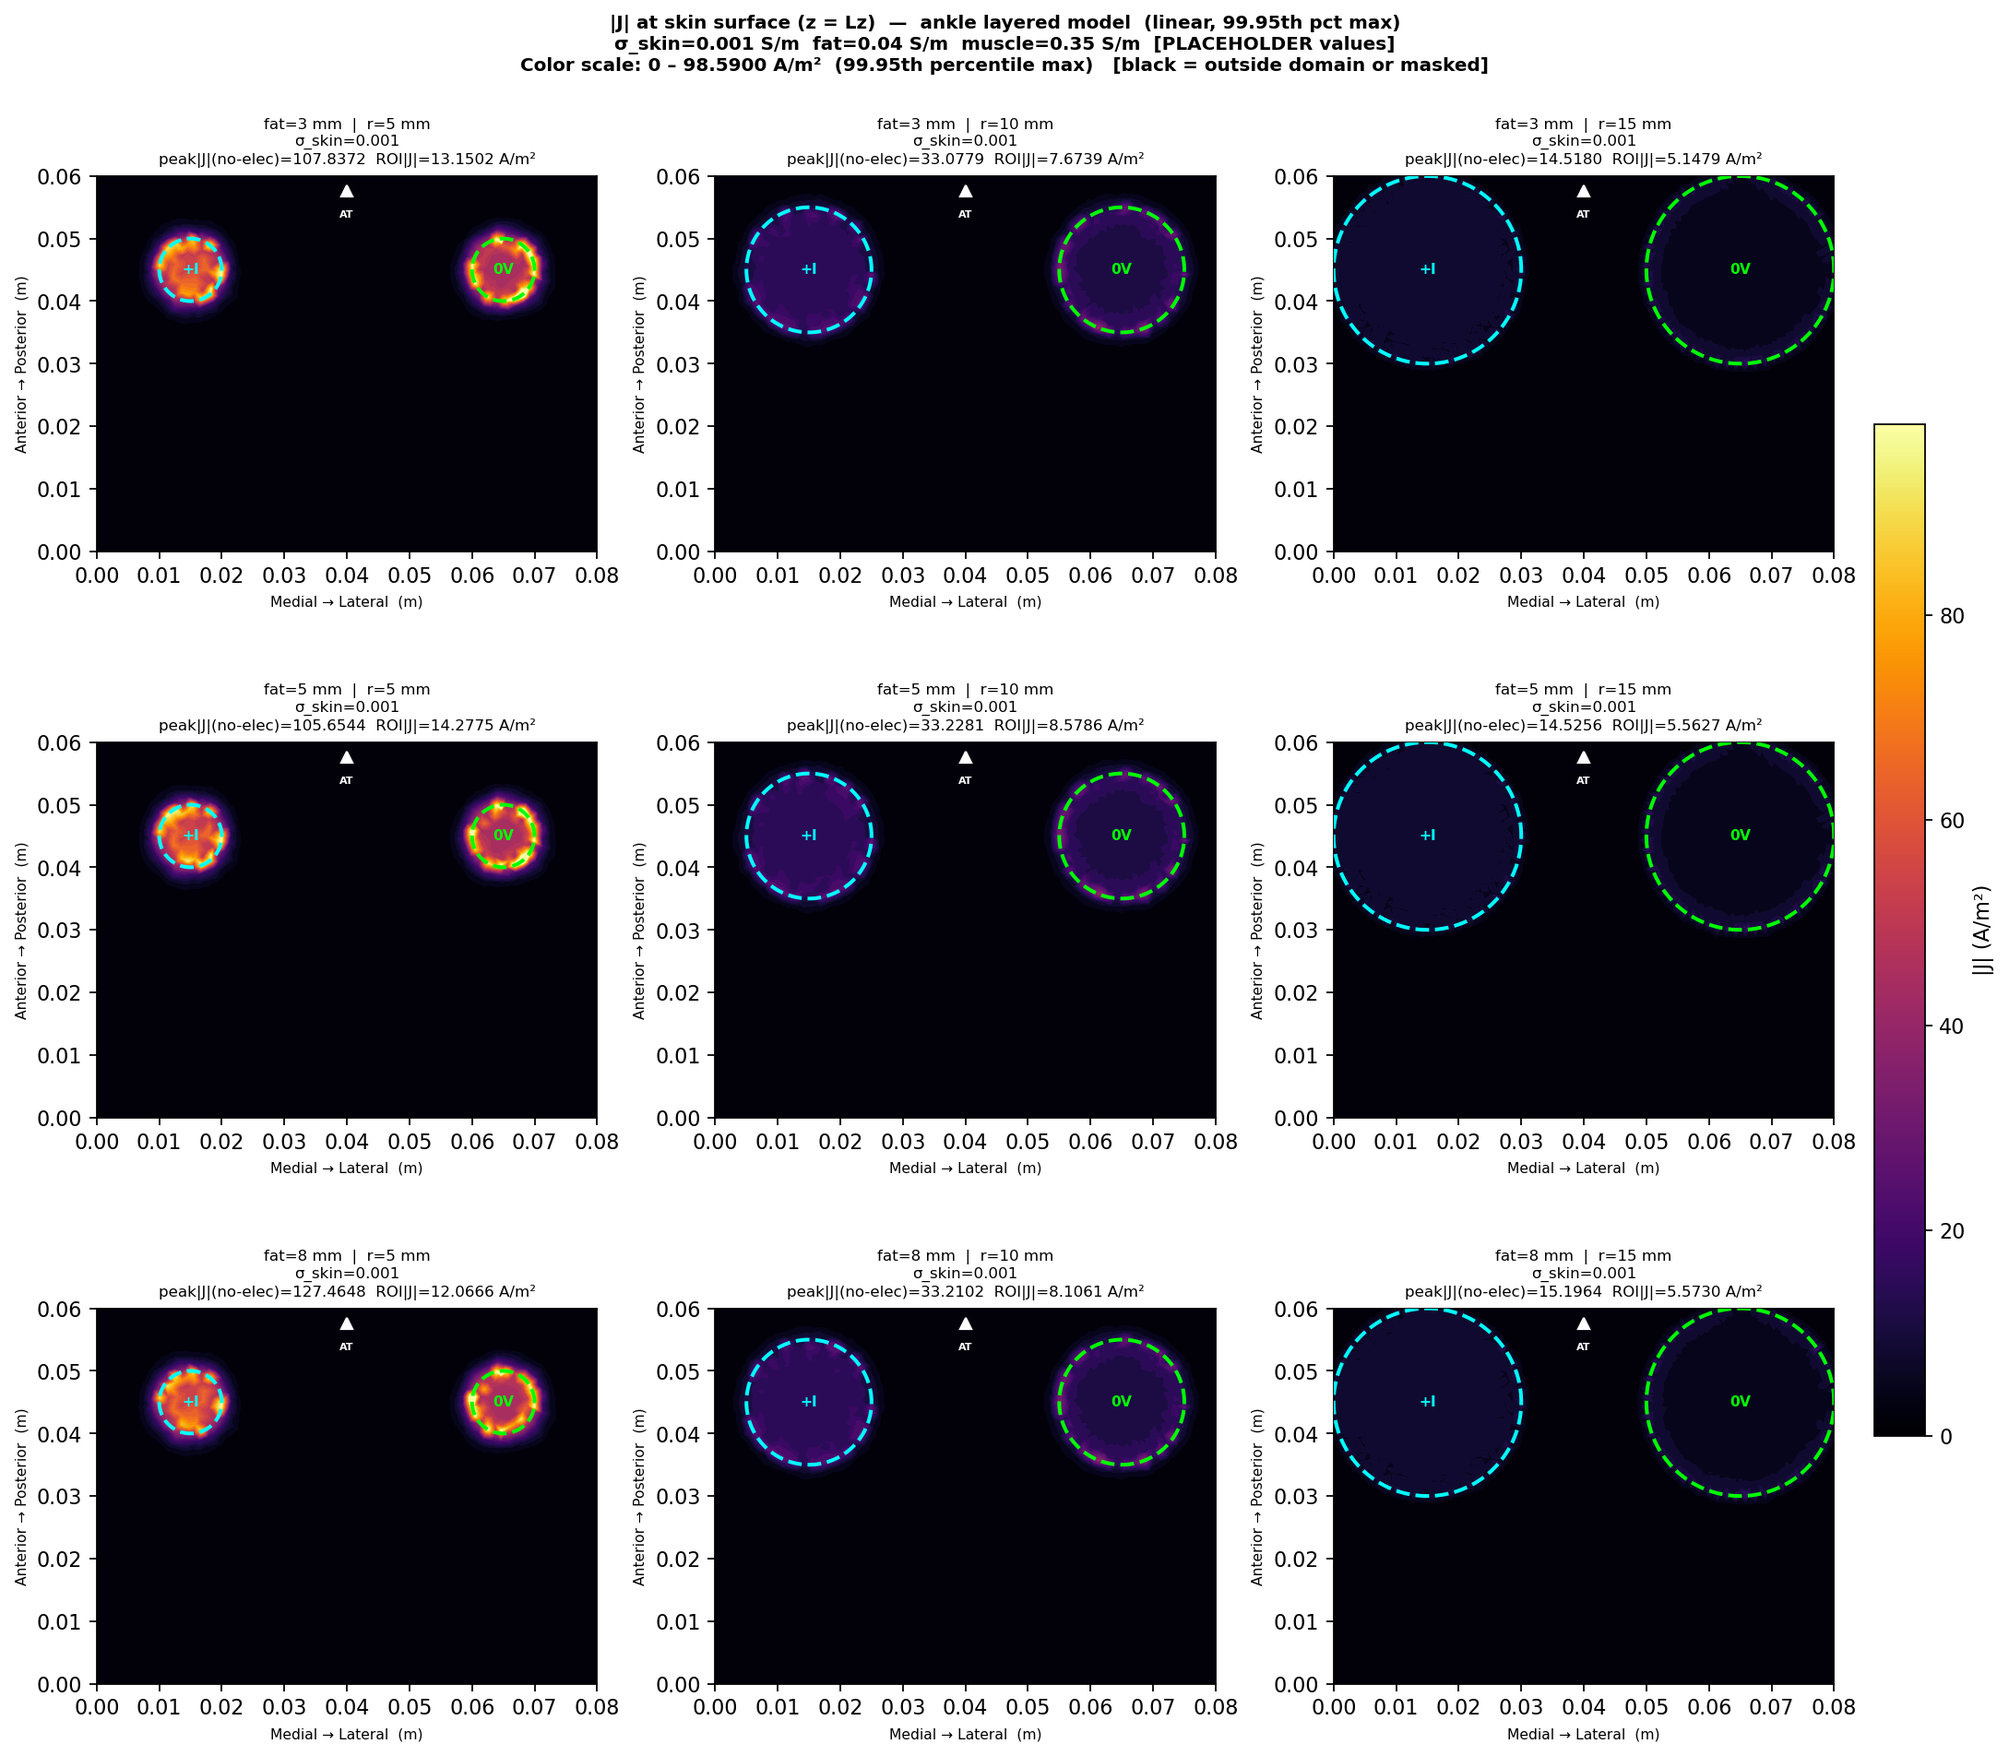
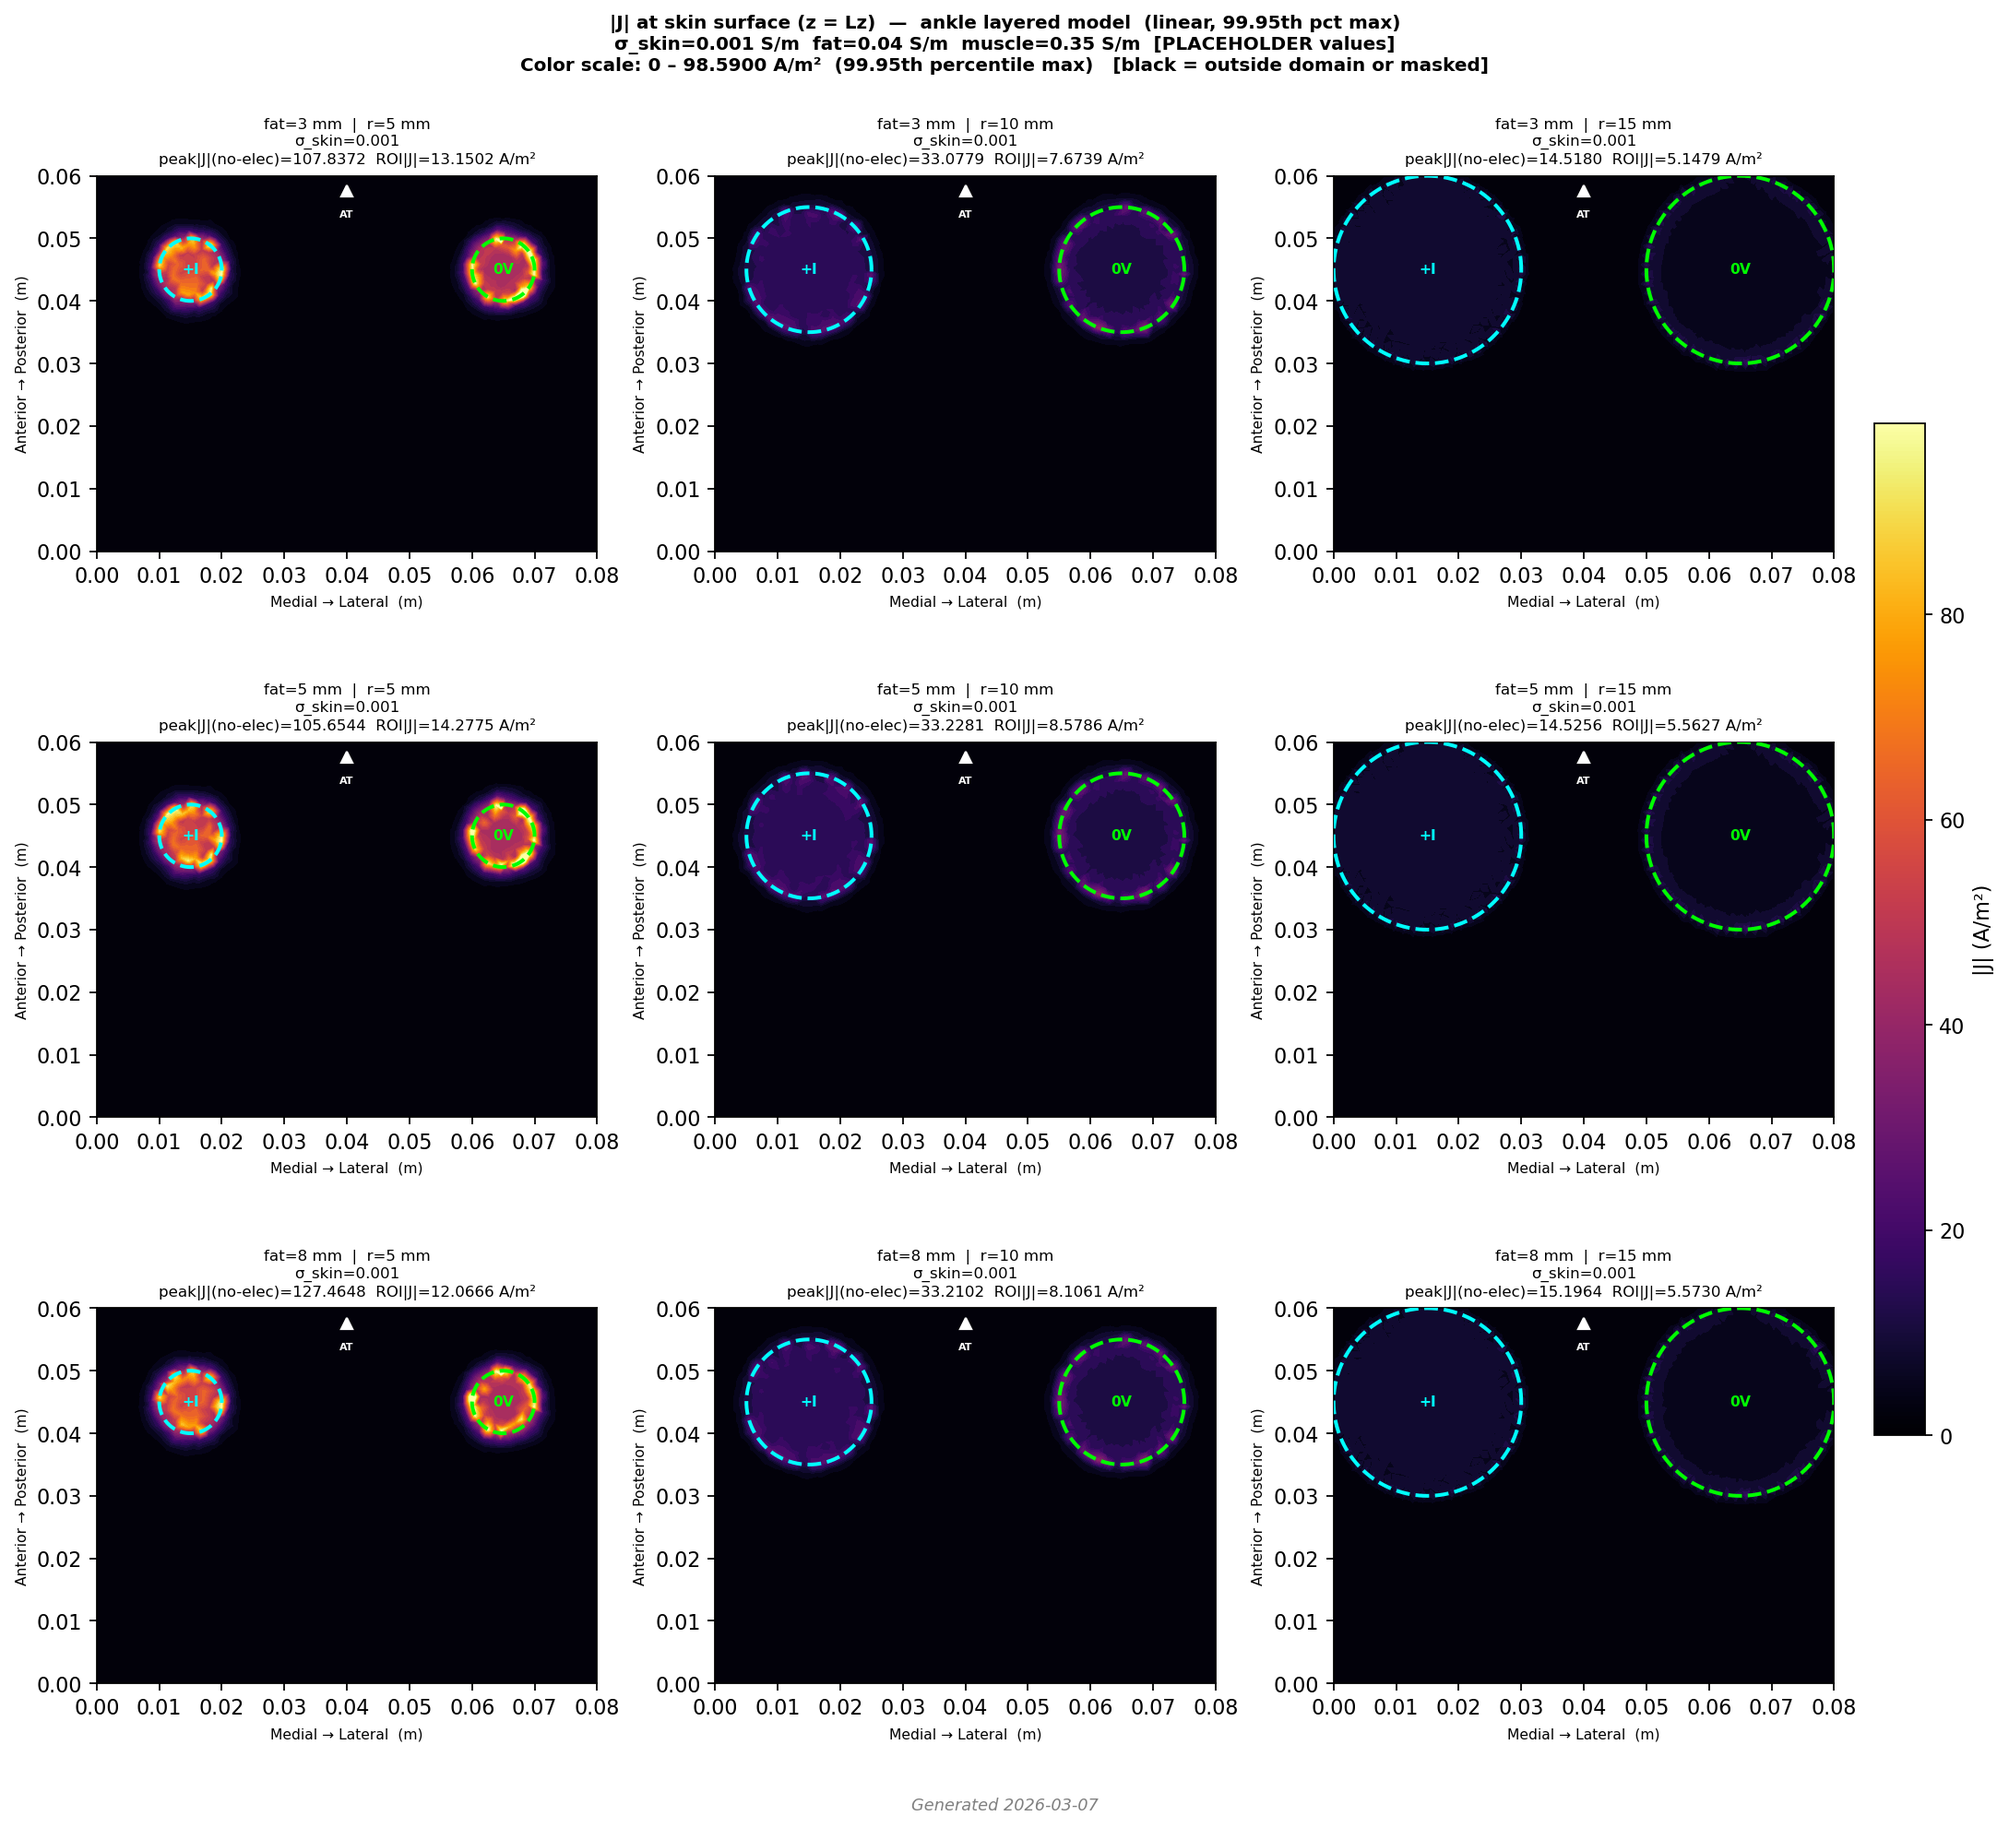
add datestamp to J surface maps and 3D render; update results

diff --git a/step03_ankle_layers/plot_layered_results.py b/step03_ankle_layers/plot_layered_results.py
@@ -21,6 +21,7 @@ All three J maps are always generated regardless of params.yaml flags.
 
 import json
 import yaml
+import datetime
 import numpy as np
 import matplotlib.pyplot as plt
 import matplotlib.colors as mcolors
@@ -304,11 +305,14 @@ def plot_J_surface_maps(summary, p):
         print(f"Saved → {out}")
         plt.close(fig)
 
+    _datestamp = datetime.date.today().isoformat()
+
     # ── Linear plot (always generated) ────────────────────────────────────────
     lin_norm   = mcolors.Normalize(vmin=vmin, vmax=vmax)
     lin_levels = np.linspace(vmin, vmax, 31)
     _render_figure(lin_norm, lin_levels, "J_surface_maps_linear.png",
-                   f"(linear, {vmax_pct:.2f}th pct max)")
+                   f"(linear, {vmax_pct:.2f}th pct max)",
+                   footer=f"Generated {_datestamp}")
 
     # ── Log-scale plot (always generated) ────────────────────────────────────
     pos_J      = [j for j in all_J if j > 0]
@@ -316,7 +320,8 @@ def plot_J_surface_maps(summary, p):
     log_norm   = mcolors.LogNorm(vmin=log_vmin, vmax=vmax)
     log_levels = np.logspace(np.log10(log_vmin), np.log10(vmax), 30)
     _render_figure(log_norm, log_levels, "J_surface_maps_log.png",
-                   "(log scale — reveals low-J spreading far from electrodes)")
+                   "(log scale — reveals low-J spreading far from electrodes)",
+                   footer=f"Generated {_datestamp}")
 
     # ── Masked-electrode plot (always generated) ──────────────────────────────
     def _mask_electrodes(Jvals, xp, yp, r_m):
@@ -546,6 +551,10 @@ def plot_3d_representative(summary, p):
     pl_pv.view_xy()          # top-down view so both pads are visible
     pl_pv.camera.zoom(1.05)
 
+    pl_pv.add_text(
+        f"Generated {datetime.date.today().isoformat()}",
+        position="lower_right", font_size=8, color="gray",
+    )
     out = RESULTS_DIR / "representative_3d.png"
     pl_pv.screenshot(str(out))
     pl_pv.close()
